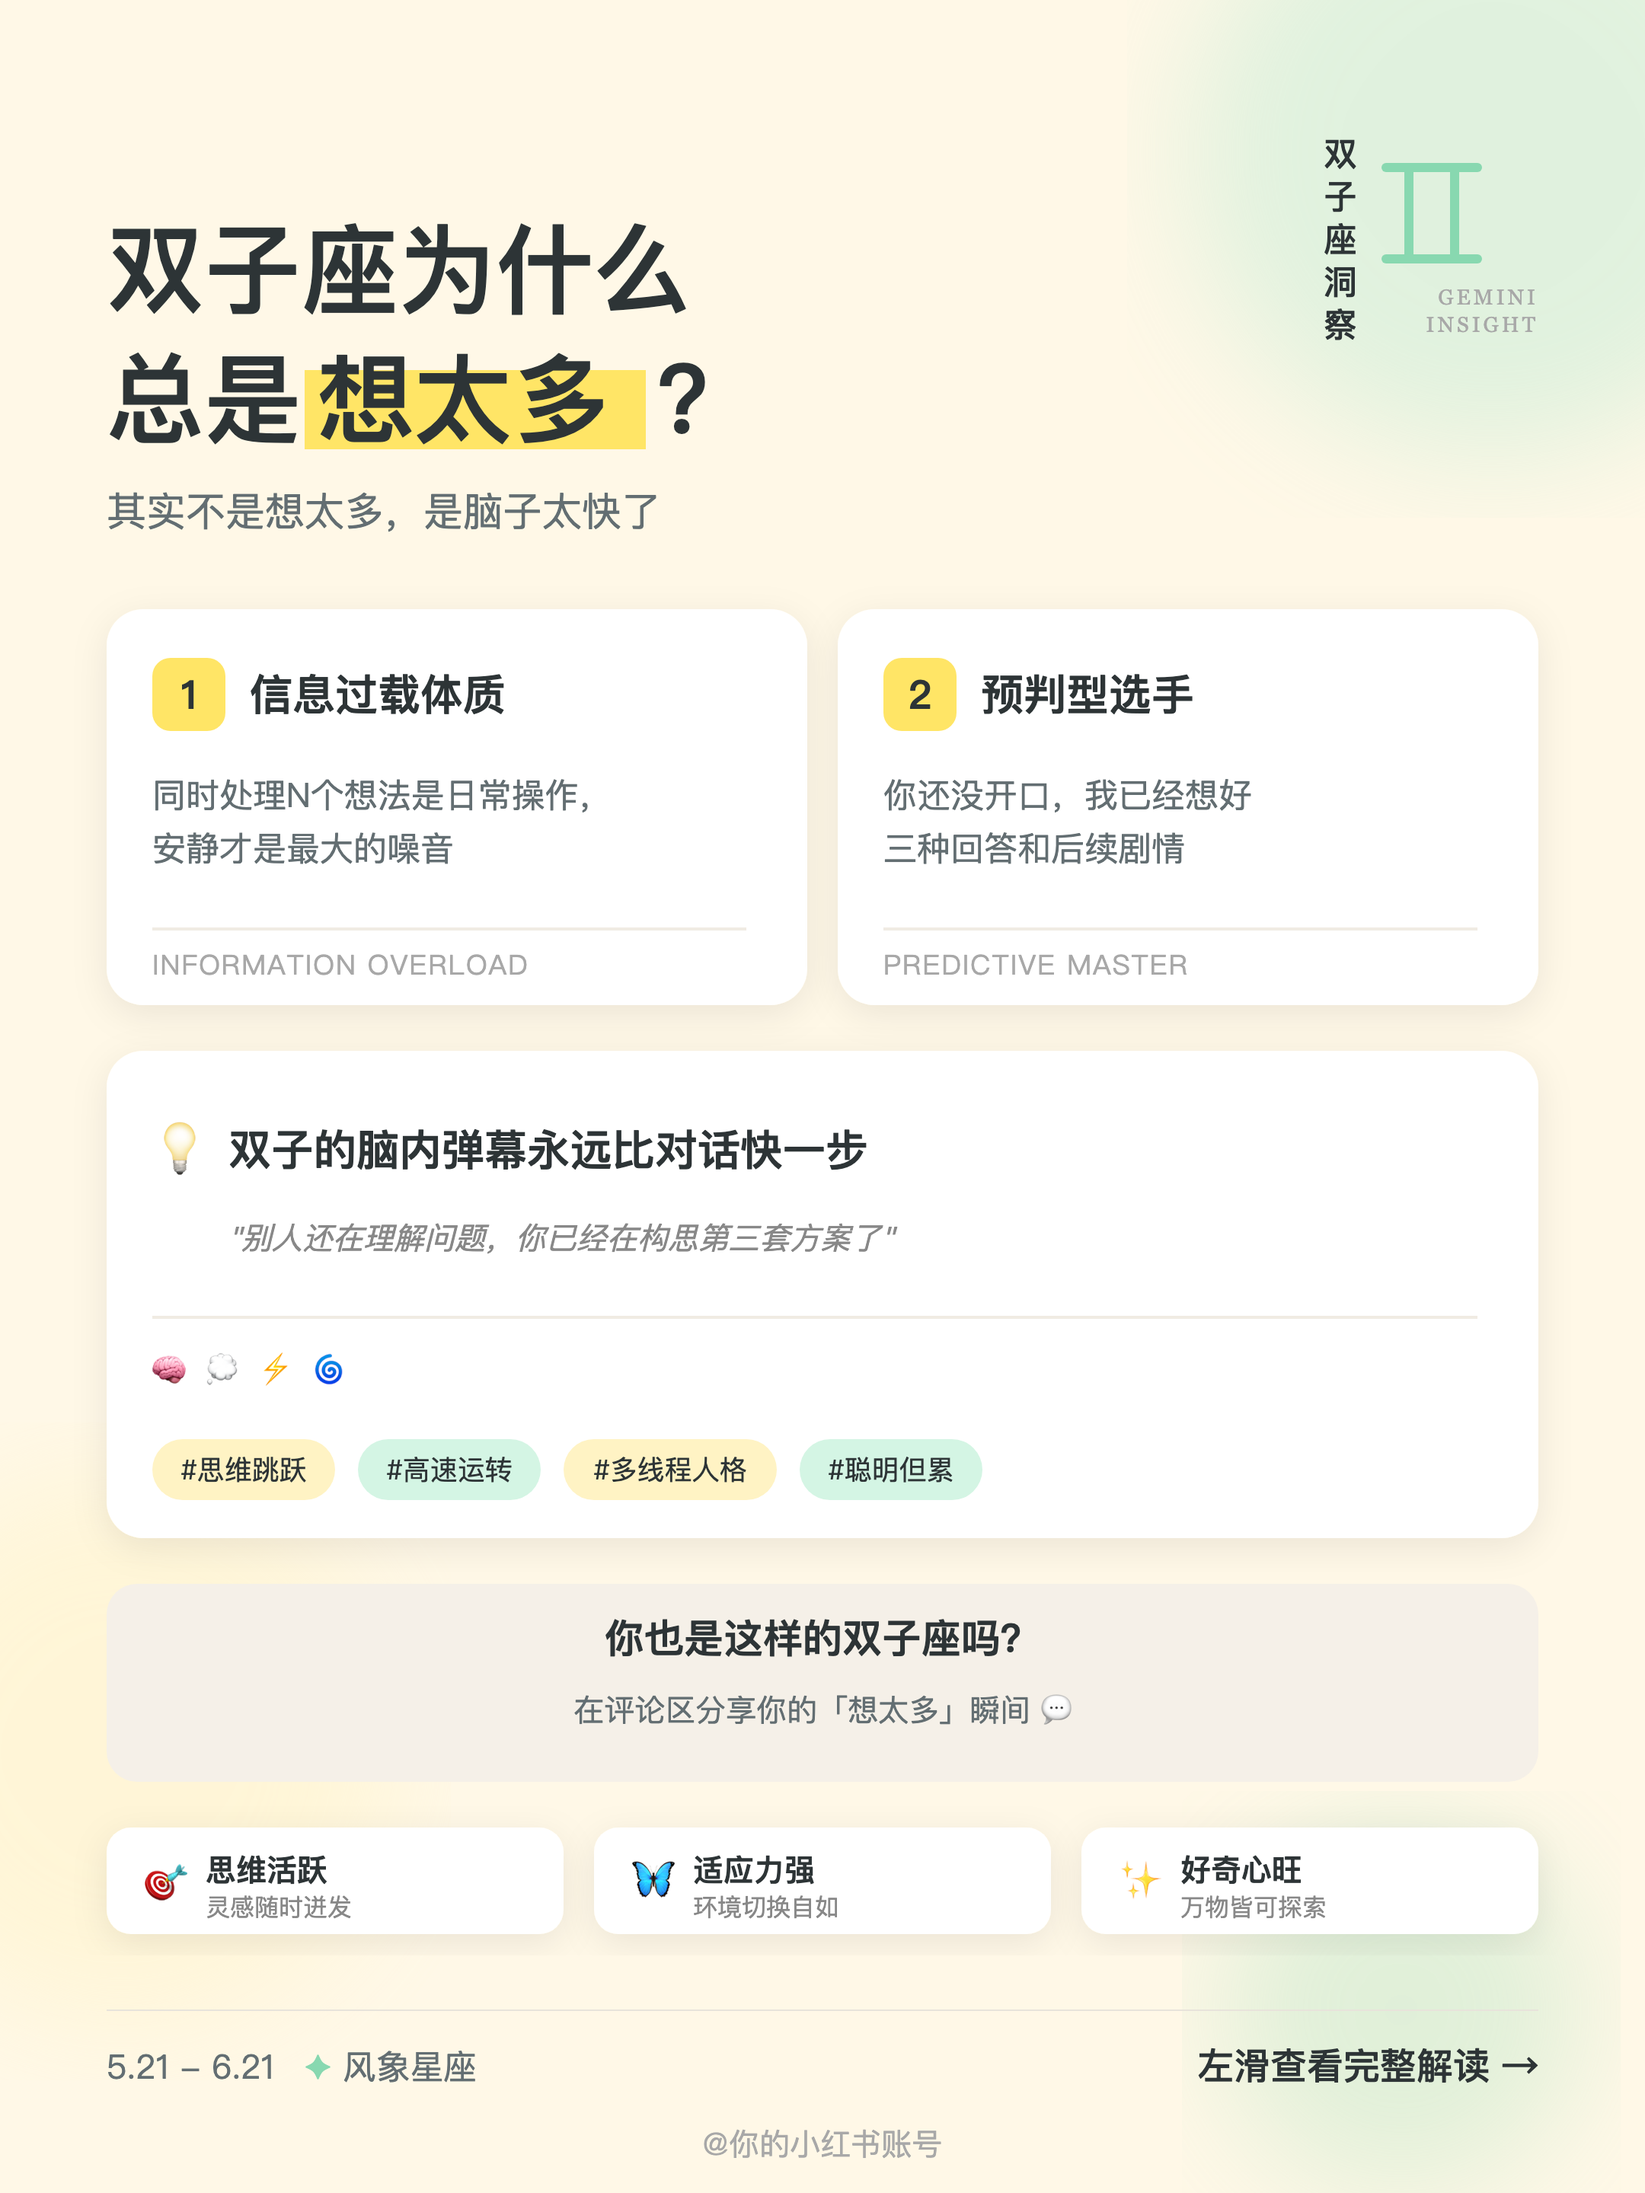
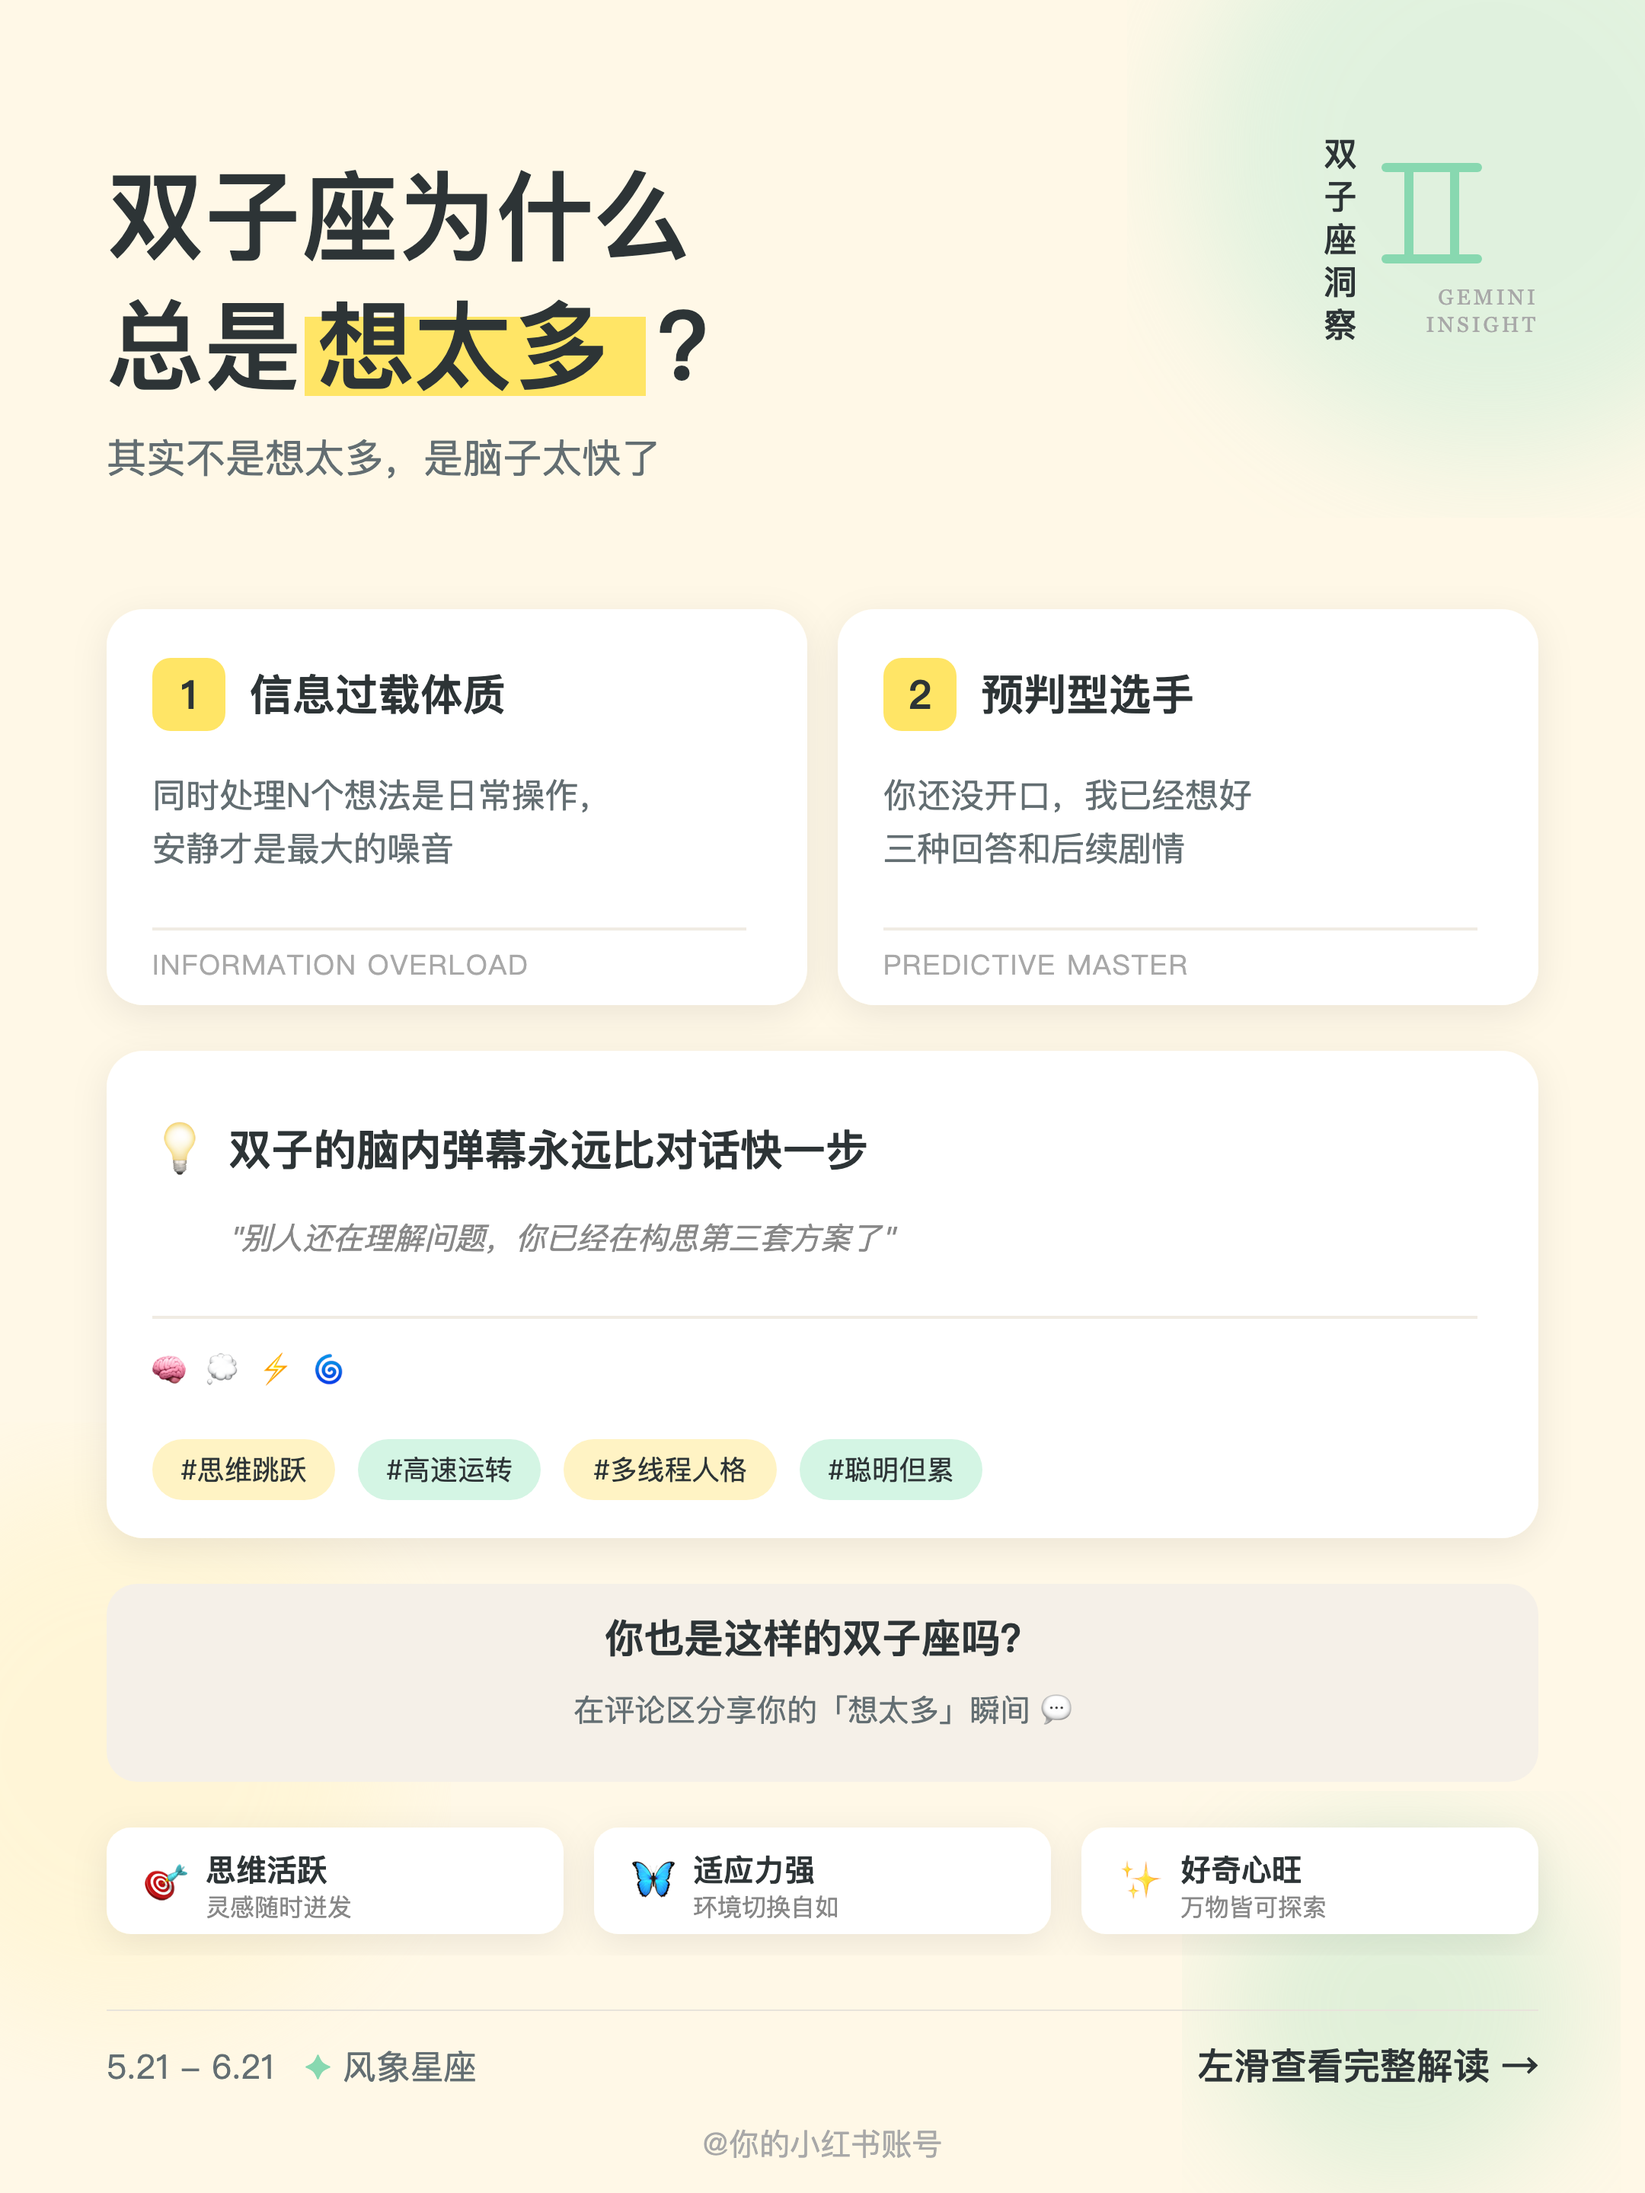
双子座为什么想太多的文字是否稍微向上移动一点点比较好。 ultrathink
🤖 Auto-backup by Claude Code

Changed region(s): [[0.062, 0.0625, 0.4343, 0.25]]

diff --git a/skills/zodiac-poster/assets/templates/fresh-insight/examples/01_cover.html b/skills/zodiac-poster/assets/templates/fresh-insight/examples/01_cover.html
@@ -56,16 +56,16 @@
   </g>
 
   <!-- ==================== 主标题区 ==================== -->
-  <text x="70" y="200" font-family="PingFang SC, Microsoft YaHei, sans-serif" font-size="64" font-weight="800" fill="#2D3436">双子座为什么</text>
+  <text x="70" y="165" font-family="PingFang SC, Microsoft YaHei, sans-serif" font-size="64" font-weight="800" fill="#2D3436">双子座为什么</text>
 
   <!-- 第二行：总是 + 高亮想太多 + ？ -->
-  <text x="70" y="285" font-family="PingFang SC, Microsoft YaHei, sans-serif" font-size="64" font-weight="800" fill="#2D3436">总是</text>
-  <rect x="200" y="243" width="224" height="52" fill="#FFE566"/>
-  <text x="208" y="285" font-family="PingFang SC, Microsoft YaHei, sans-serif" font-size="64" font-weight="800" fill="#2D3436">想太多</text>
-  <text x="432" y="285" font-family="PingFang SC, Microsoft YaHei, sans-serif" font-size="64" font-weight="800" fill="#2D3436">？</text>
+  <text x="70" y="250" font-family="PingFang SC, Microsoft YaHei, sans-serif" font-size="64" font-weight="800" fill="#2D3436">总是</text>
+  <rect x="200" y="208" width="224" height="52" fill="#FFE566"/>
+  <text x="208" y="250" font-family="PingFang SC, Microsoft YaHei, sans-serif" font-size="64" font-weight="800" fill="#2D3436">想太多</text>
+  <text x="432" y="250" font-family="PingFang SC, Microsoft YaHei, sans-serif" font-size="64" font-weight="800" fill="#2D3436">？</text>
 
   <!-- 副标题 -->
-  <text x="70" y="345" font-family="PingFang SC, Microsoft YaHei, sans-serif" font-size="26" fill="#636E72">其实不是想太多，是脑子太快了</text>
+  <text x="70" y="310" font-family="PingFang SC, Microsoft YaHei, sans-serif" font-size="26" fill="#636E72">其实不是想太多，是脑子太快了</text>
 
   <!-- ==================== 双卡片区 ==================== -->
   <!-- 卡片1 -->
